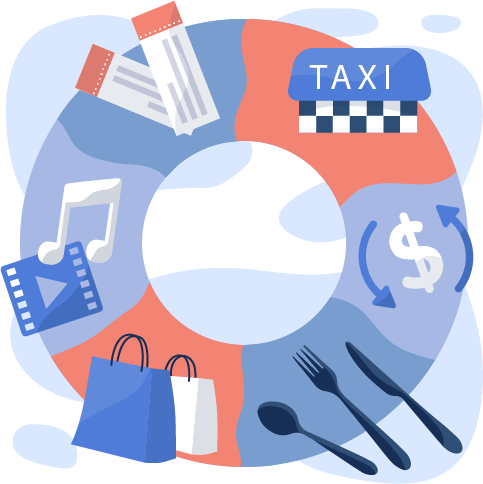
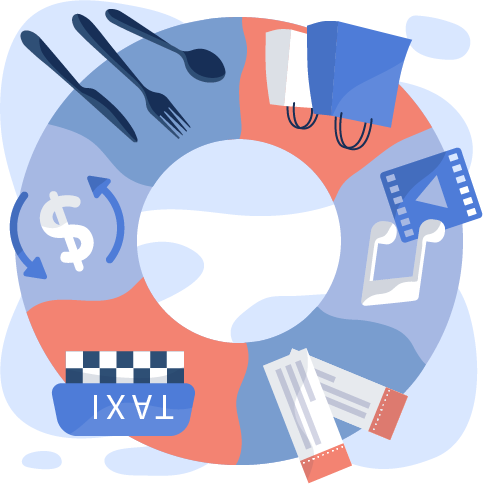
11s animation finished.

diff --git a/src/components/Home/CommunicationArea/index.tsx b/src/components/Home/CommunicationArea/index.tsx
@@ -12,6 +12,11 @@ import communications from '../../../images/communication/Communications.png';
 import connectedApplication from '../../../images/communication/Connected Application.png';
 import digitalWallet from '../../../images/communication/Digital wallet.png';
 
+import address_book_phone from '../../../images/communication/addressbook_phone.png';
+import communication_phone from '../../../images/communication/communication_phone.png';
+import connected_application_phone from '../../../images/communication/connected_application.png';
+import digital_wallet_phone from '../../../images/communication/digital_wallet_phone.png';
+
 import { FontAwesomeIcon } from '@fortawesome/react-fontawesome';
 import {
   faBroadcastTower,
@@ -27,6 +32,7 @@ enum RotatingStatus {
 }
 
 interface State {
+  imageWidth: number;
   degree: number;
   imageProps: any;
 }
@@ -44,8 +50,11 @@ const size = radius * 2;
 
 class CommunicationArea extends React.Component<any, State> {
   private timerID: any;
-  private width: number;
-  private height: number;
+  private canvasWidth: number;
+  private canvasHeight: number;
+  private out_w: number;
+  private in_w: number;
+  private readonly originalImageWidth = 120;
   private step: number;
   private opacity: number;
   private rotatingStatus: RotatingStatus;
@@ -54,18 +63,68 @@ class CommunicationArea extends React.Component<any, State> {
   private opacityStep: number;
   private curTargetIndex: number;
   private readonly originalOpacity = 0.5;
+  private readonly maxScale = 1.5;
+  private scale: number;
+  private phoneImages;
+  private phoneImageOpacity = 1;
 
   public constructor(props: Props) {
     super(props);
     this.state = {
+      imageWidth: 0,
       degree: 0,
-      imageProps: []
+      imageProps: [
+        {
+          imageWidth: this.originalImageWidth,
+          degree: 0,
+          imageProps: [
+            {
+              href: digitalWallet,
+              x: 0,
+              y: 0,
+              opacity: 0.5,
+              scale: 1
+            },
+            {
+              href: addressBook,
+              x: 0,
+              y: 0,
+              opacity: 0.5,
+              scale: 1
+            },
+            {
+              href: connectedApplication,
+              x: 0,
+              y: 0,
+              opacity: 0.5,
+              scale: 1
+            },
+            {
+              href: communications,
+              x: 0,
+              y: 0,
+              opacity: 0.5,
+              scale: 1
+            }
+          ]
+        }
+      ]
     };
-    this.width = 1000;
-    this.height = 1000;
+
+    this.phoneImages = [
+      digital_wallet_phone,
+      address_book_phone,
+      connected_application_phone,
+      communication_phone
+    ];
+
+    this.canvasWidth = 1000;
+    this.canvasHeight = 1000;
+    this.out_w = 700;
     this.step = -0.8;
     this.opacity = 0.5;
     this.opacityStep = 0.1;
+    this.curTargetIndex = 0;
     this.rotatingStatus = RotatingStatus.Aimless;
   }
 
@@ -81,13 +140,19 @@ class CommunicationArea extends React.Component<any, State> {
         this.opacity = 1;
       }
       this.opacity += this.opacityStep;
+      if (this.opacity > 1) this.opacity = 1;
+
+      this.scale = 1.3;
       let { imageProps } = this.state;
       imageProps[this.curTargetIndex].opacity = this.opacity;
+      imageProps[this.curTargetIndex].scale = this.scale;
       this.setState({ imageProps: imageProps });
+      console.log(this.phoneImageOpacity);
     }
     if (degree > 360) degree = 0;
     if (degree < 0) degree = 360;
     this.setState({ degree: degree });
+    this.phoneImageOpacity = this.opacity + 0.2;
   }
 
   private onHover(index: number) {
@@ -100,66 +165,104 @@ class CommunicationArea extends React.Component<any, State> {
       Math.abs(this.targetDeg - this.state.degree) / targetingStep
     );
     this.opacityStep = (1 - this.originalOpacity) / remainingTickCountToTarget;
+    // this.phoneImageOpacity = 0.5;
   }
 
   private onLeave() {
     this.rotatingStatus = RotatingStatus.Aimless;
     this.step = -1;
     this.opacity = 0.5;
+    this.scale = 1;
     let { imageProps } = this.state;
+
     imageProps[this.curTargetIndex].opacity = this.opacity;
+    imageProps[this.curTargetIndex].scale = this.scale;
     this.setState({ imageProps: imageProps });
+    // this.phoneImageOpacity = 1;
   }
 
   componentDidMount() {
-    let w: number = this.width;
-    w = 500;
-    let sw: number = 100;
+    this.in_w = this.out_w - 100;
+    let offset = (this.out_w - this.in_w) / 2;
+    let sw = this.originalImageWidth;
     this.setState({
+      imageWidth: this.originalImageWidth,
       degree: 0,
       imageProps: [
-        { href: digitalWallet, x: w / 2 - sw / 2, y: 0, opacity: 0.5 },
-        { href: addressBook, x: 0, y: w / 2 - sw / 2, opacity: 0.5 },
+        {
+          href: digitalWallet,
+          x: offset + this.in_w / 2 - sw / 2,
+          y: offset + 0,
+          opacity: 0.5,
+          scale: 1
+        },
+        {
+          href: addressBook,
+          x: offset + 0,
+          y: offset + this.in_w / 2 - sw / 2,
+          opacity: 0.5,
+          scale: 1
+        },
         {
           href: connectedApplication,
-          x: w / 2 - sw / 2,
-          y: w - sw,
-          opacity: 0.5
+          x: offset + this.in_w / 2 - sw / 2,
+          y: offset + this.in_w - sw,
+          opacity: 0.5,
+          scale: 1
         },
-        { href: communications, x: w - sw, y: w / 2 - sw / 2, opacity: 0.5 }
+        {
+          href: communications,
+          x: offset + this.in_w - sw,
+          y: offset + this.in_w / 2 - sw / 2,
+          opacity: 0.5,
+          scale: 1
+        }
       ]
     });
     this.timerID = setInterval(() => this.tick(), 30);
   }
+
   componentWillUnmount() {
     clearInterval(this.timerID);
   }
 
   public render() {
     const { imageProps } = this.state;
-    const w: number = this.width / 2;
-    const sw: number = 100;
+    const innerCircleOffset =
+      this.originalImageWidth / 2 + (this.out_w - this.in_w) / 2;
     return (
       <div className="CommunicationArea">
         <div className="carousel">
-          <svg width={this.width} height={this.height} className="svg_content">
-            <svg x="250" y="0" width={w} height={w}>
-              <image width={w} height={w} href={background_circle}>
+          <svg viewBox="0 0 1500 700" className="svg_content">
+            <svg x="400" y="0" width={`${this.out_w}`} height={`${this.out_w}`}>
+              <image
+                width={`${this.in_w - this.originalImageWidth}`}
+                height={`${this.in_w - this.originalImageWidth}`}
+                x={innerCircleOffset}
+                y={innerCircleOffset}
+                href={stable}
+                className="stable"
+              />
+              <image
+                width={this.in_w - this.originalImageWidth}
+                height={this.in_w - this.originalImageWidth}
+                x={innerCircleOffset}
+                y={innerCircleOffset}
+                href={background_circle}
+              >
                 <animateTransform
                   attributeName="transform"
                   attributeType="XML"
                   type="rotate"
-                  from={`0 ${w / 2}  ${w / 2}`}
-                  to={`360 ${w / 2}  ${w / 2}`}
+                  from={`0 ${this.out_w / 2}  ${this.out_w / 2}`}
+                  to={`360 ${this.out_w / 2}  ${this.out_w / 2}`}
                   dur="10s"
                   repeatCount="indefinite"
                 />
               </image>
-              <image width={w} height={w} href={stable} className="stable" />
               <g
-                width={w}
-                height={w}
-                transform={`rotate( ${this.state.degree} ${w / 2} ${w / 2} )`}
+                transform={`rotate( ${this.state.degree} ${this.out_w /
+                  2} ${this.out_w / 2} )`}
               >
                 {imageProps.map((prop, index) => {
                   return (
@@ -169,12 +272,28 @@ class CommunicationArea extends React.Component<any, State> {
                       x={prop.x}
                       y={prop.y}
                       opacity={prop.opacity}
-                      width={sw}
-                      height={sw}
+                      width={this.state.imageWidth}
+                      height={this.state.imageWidth}
+                      transform={`matrix(${prop.scale}, 0, 0, ${
+                        prop.scale
+                      }, ${prop.x - prop.scale * prop.x}, ${prop.y -
+                        prop.scale * prop.y} )`}
                     />
                   );
                 })}
               </g>
+              <image
+                // width={this.in_w - this.originalImageWidth}
+                // height={this.in_w - this.originalImageWidth}
+                // x={innerCircleOffset}
+                // y={innerCircleOffset}
+                href={this.phoneImages[this.curTargetIndex]}
+                opacity={this.phoneImageOpacity}
+                width="500"
+                x="75"
+                y="100"
+                className="phone_img"
+              />
             </svg>
           </svg>
         </div>

diff --git a/src/components/Home/CommunicationArea/styles.scss b/src/components/Home/CommunicationArea/styles.scss
@@ -5,16 +5,6 @@
   position: relative;
   .carousel {
     display: none;
-    .stable {
-    }
-    // .constantly_rotating {
-    //   width: 50%;
-    //   animation: rotation_clockwise 4s linear infinite;
-    //   // display: none;
-    // }
-    .svg_content {
-      // width: 100%;
-    }
   }
   .landscape_head_text {
     display: none;
@@ -105,9 +95,16 @@
 @include media-breakpoint-up(lg) {
   .CommunicationArea {
     // position: relative;
-    margin-bottom: 166px;
+    // margin-bottom: 166px;
     .carousel {
       display: unset;
+      .svg_content {
+        width: 100%;
+        margin-top: 10%;
+        .phone_img {
+          transition: 1s;
+        }
+      }
     }
     .communication_bg {
       img {
@@ -139,7 +136,7 @@
       }
     }
     .box_area {
-      margin-top: calc(170 / 1440 * 100vw);
+      margin-top: calc(100 / 1440 * 100vw);
 
       .left,
       .right {
